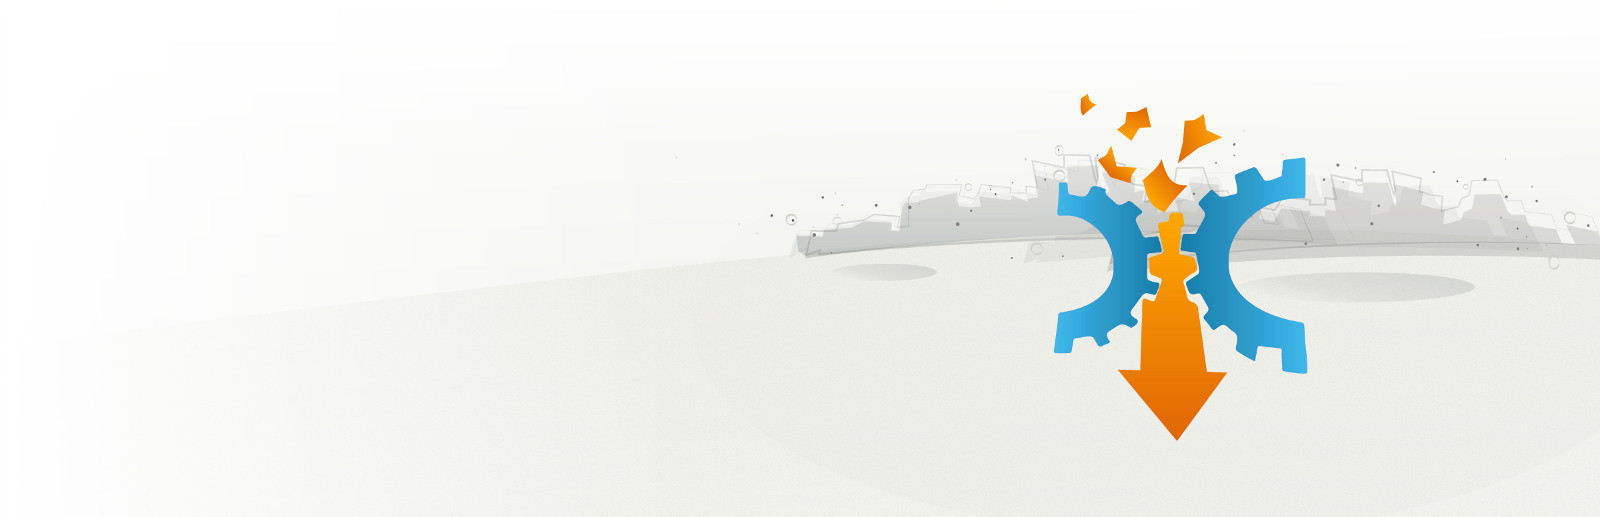
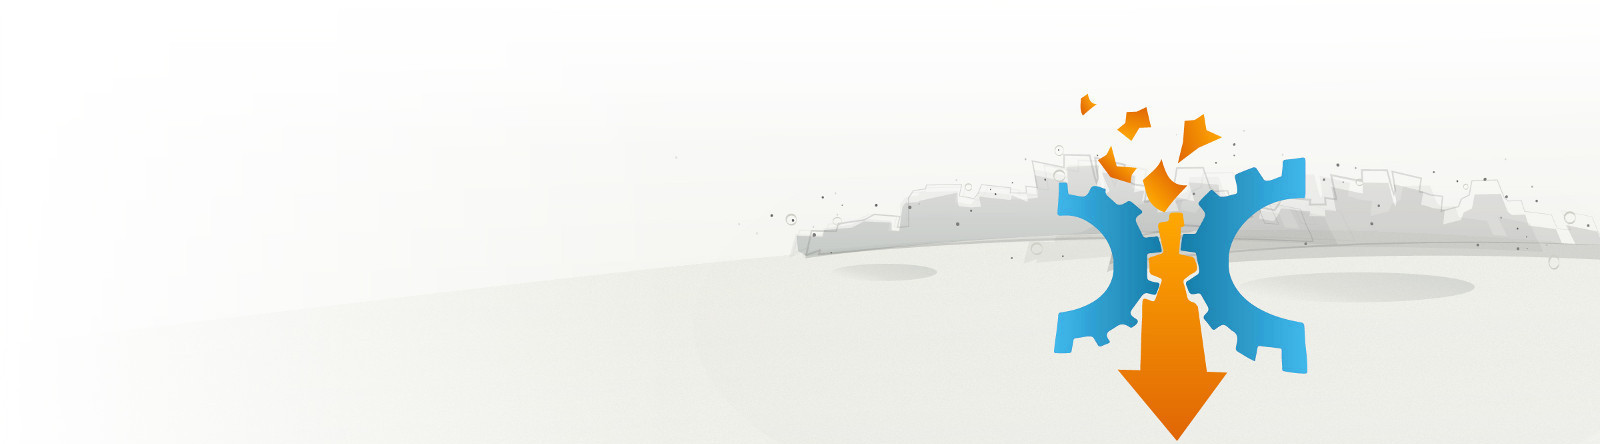
Added database list to frontpage

Changed region(s): [[0.5, 0.1757, 1.0, 0.9955]]

diff --git a/_sass/datacleaner/widgets.scss b/_sass/datacleaner/widgets.scss
@@ -77,9 +77,10 @@ a.site-title:hover {
 	margin: 0;
 	left: 0px;
 	width: 100%;
-	height: 450px;
+	height: 300px;
 	border-bottom: 1px solid $grey-color-light;
 	background-position-x: right;
+	background-position-y: bottom;
 	background-image: url("/assets/welcome-panel-background.jpg");
 	background-repeat: no-repeat;
 	background-size: cover;
@@ -90,8 +91,26 @@ a.site-title:hover {
 
 .welcomePanelBreaker {
 	clear: both;
-	height: 450px;
+	height: 300px;
 	margin-bottom: 1em;
+}
+
+.databasesPanel {
+	text-align: center;
+	position: absolute;
+	padding: 0;
+	margin: 0;
+	left: 0px;
+	width: 100%;
+	height: 50px;
+	border-bottom: 1px solid $grey-color-light;
+	white-space: nowrap;
+}
+
+.databasesPanelBreaker {
+	clear: both;
+	height: 50px;
+	margin-bottom: 4em;
 }
 
 .githubRibbon {

diff --git a/index.md b/index.md
@@ -8,13 +8,21 @@ layout: page
 
 	<h1>Welcome to the <span class="orange">DataCleaner</span> <span class="blue">community edition</span> site.</h1>
 
-	<p>The home of the premier open source Data Quality solution.</p>
+	<p>The premier open source Data Quality solution.</p>
 
 	</div>
 
 </div>
 
 <div class="welcomePanelBreaker">
+</div>
+
+<div class="databasesPanel">
+	<img src="/assets/databases1.jpg" alt=""/>
+	<img src="/assets/databases2.jpg" alt=""/>
+</div>
+
+<div class="databasesPanelBreaker">
 </div>
 
 ### What is DataCleaner?
